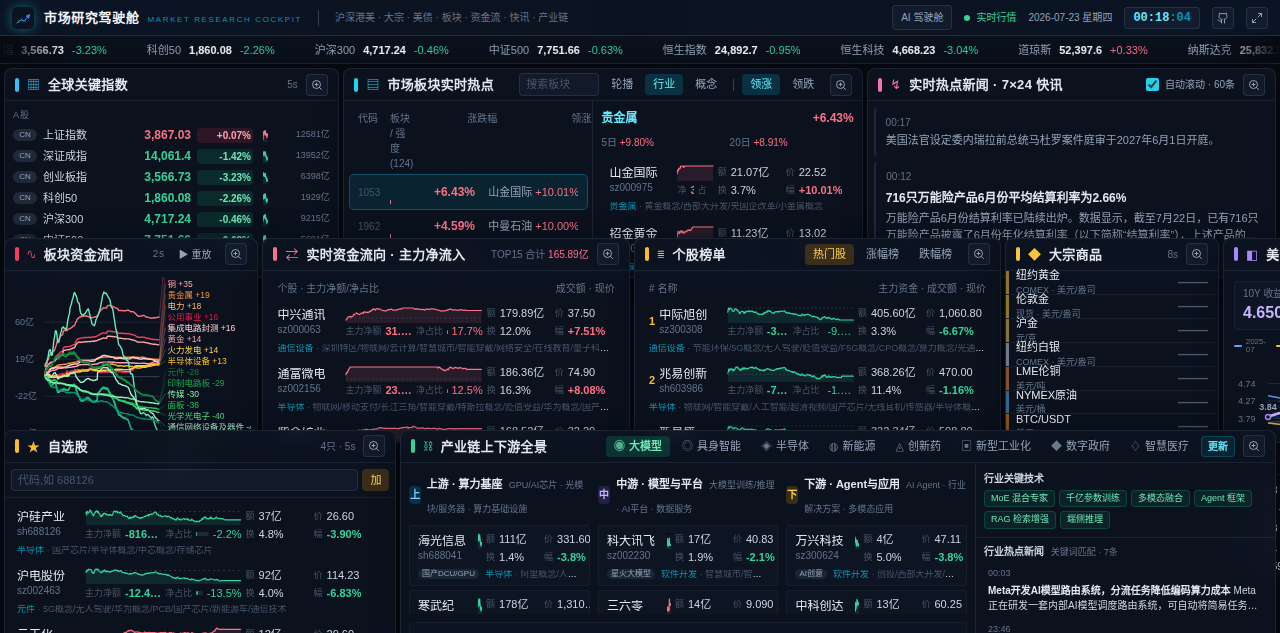
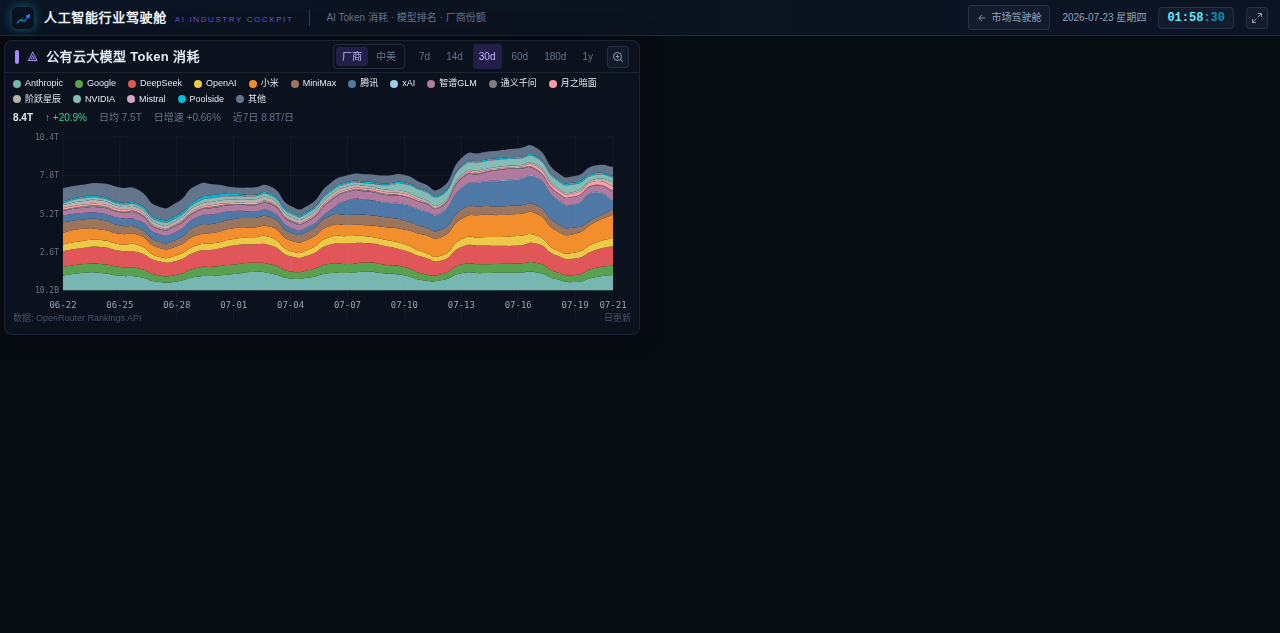
feat: OpenRouter 全量历史数据积累 + 面板优化
- 服务端：OpenRouter rankings-daily API 分段拉取（200天/段），
  从 2025-01-01 起积累 565 天全量数据，本地持久化缓存
- 厂商映射：新增 nex-agi/字节跳动/BAAI/Perplexity/inclusionai
- 面板范围：7d/14d/30d/60d/180d/1y，默认 30d
- 统计行：涨跌幅%、日增速、日均、近7日均
- X 轴日期标签 + 垂直线网格，修复 SVG 裁剪
- openrouter 流量合并到「其他」，补充预设颜色
- API Key 从 git 历史清除，改为 .env 环境变量

diff --git a/src/components/dash/OpenRouterPanel.tsx b/src/components/dash/OpenRouterPanel.tsx
@@ -1,4 +1,4 @@
-import { useEffect, useMemo, useRef, useState } from "react";
+import { useEffect, useMemo, useRef, useState, Fragment } from "react";
 import { Panel, type PanelZoomProps } from "./Panel";
 import { useOpenRouterUsage } from "@/lib/api";
 import type { OrUsageDay } from "@/lib/api";
@@ -14,9 +14,9 @@ const VENDOR_COLORS: Record<string, string> = [
   "#4e79a7", "#f28e2b", "#e15759", "#76b7b2", "#59a14f",
   "#edc948", "#b07aa1", "#ff9da7", "#9c755f", "#bab0ac",
   "#86bcb6", "#d4a6c8", "#f1ce63", "#a0cbe8", "#e377c2",
-  "#7f7f7f",
+  "#7f7f7f", "#00bcd4", "#ff5722", "#8bc34a",
 ].reduce((m, c, i) => {
-  const names = ["腾讯", "小米", "DeepSeek", "Anthropic", "Google", "OpenAI", "智谱GLM", "月之暗面", "MiniMax", "阶跃星辰", "NVIDIA", "Mistral", "Meta", "xAI", "Cohere"];
+  const names = ["腾讯", "小米", "DeepSeek", "Anthropic", "Google", "OpenAI", "智谱GLM", "月之暗面", "MiniMax", "阶跃星辰", "NVIDIA", "Mistral", "Meta", "xAI", "Cohere", "通义千问", "Poolside", "inclusionai", "nex-agi", "字节跳动", "BAAI", "Perplexity"];
   if (i < names.length) m[names[i]] = c;
   return m;
 }, {} as Record<string, string>);
@@ -56,7 +56,7 @@ function Chart({ allDays, days, mode }: { allDays: OrUsageDay[]; days: OrUsageDa
   const chart = useMemo(() => {
     if (!days || days.length < 2) return null;
     const { w: W, h: H } = size;
-    const ch = H - 36, PL = 50, PR = 18, PT = 8, PB = 24;
+    const ch = H - 36, PL = 50, PR = 18, PT = 8, PB = 34;
     const iw = W - PL - PR, ih = ch - PT - PB;
     if (iw < 40 || ih < 20) return null;
     const n = days.length;
@@ -68,7 +68,9 @@ function Chart({ allDays, days, mode }: { allDays: OrUsageDay[]; days: OrUsageDa
     const cum: Record<string, number> = {};
     for (const d of allDays)
       for (const p of d[source]) cum[p.name] = (cum[p.name] || 0) + p.tokens;
-    const topNames = Object.keys(cum).filter((v) => v !== "其他").sort((a, b) => cum[b] - cum[a]);
+    let topNames = Object.keys(cum).filter((v) => v !== "其他").sort((a, b) => cum[b] - cum[a]);
+    // 将 openrouter 合并到"其他"
+    topNames = topNames.filter((v) => v !== "openrouter");
 
     if (mode === "vendor") {
       // vendor mode: top N + other
@@ -105,14 +107,20 @@ function Chart({ allDays, days, mode }: { allDays: OrUsageDay[]; days: OrUsageDa
 
       const yTicks: { v: number; y: number }[] = [];
       for (let i = 0; i <= 4; i++) yTicks.push({ v: lo + ((hi - lo) / 4) * i, y: Y(lo + ((hi - lo) / 4) * i) });
-      const xStep = Math.max(1, Math.floor(n / 6));
+      const xStep = Math.max(1, Math.floor(n / 8));
       const xLabels: { label: string; x: number }[] = [];
-      for (let i = 0; i < n; i += xStep) xLabels.push({ label: days[i].date.slice(5), x: X(i) });
+      const span = n > 1 ? (new Date(days[n-1].date).getTime() - new Date(days[0].date).getTime()) / 86400000 : 0;
+      const fmt = span > 200 ? (d: string) => d.slice(0, 7) : (d: string) => d.slice(5);
+      for (let i = 0; i < n; i += xStep) xLabels.push({ label: fmt(days[i].date), x: X(i) });
       const lastX = X(n - 1);
-      if (!xLabels.length || xLabels[xLabels.length - 1].x < lastX - 20) xLabels.push({ label: days[n - 1].date.slice(5), x: lastX });
+      if (!xLabels.length || xLabels[xLabels.length - 1].x < lastX - 20) xLabels.push({ label: fmt(days[n - 1].date), x: lastX });
       const last = stacked[n - 1].total, first = stacked[0].total, chg = last - first;
+      const chgPct = first ? ((last / first) - 1) * 100 : 0;
+      const dayCount = n - 1;
+      const dailyRate = dayCount > 0 && first ? ((last / first) ** (1 / dayCount) - 1) * 100 : 0;
       const avg7 = stacked.slice(-7).reduce((s, d) => s + d.total, 0) / Math.min(7, n);
-      return { W, H, PL, PR, PT, PB, areas, yTicks, xLabels, last, chg, avg7 };
+      const avg = stacked.reduce((s, d) => s + d.total, 0) / n;
+      return { W, H, PL, PR, PT, PB, areas, yTicks, xLabels, last, chg, chgPct, dailyRate, avg7, avg, dayCount };
     } else {
       // country mode: all countries (China, US, Other)
       const stacked = days.map((d) => {
@@ -147,14 +155,20 @@ function Chart({ allDays, days, mode }: { allDays: OrUsageDay[]; days: OrUsageDa
 
       const yTicks: { v: number; y: number }[] = [];
       for (let i = 0; i <= 4; i++) yTicks.push({ v: lo + ((hi - lo) / 4) * i, y: Y(lo + ((hi - lo) / 4) * i) });
-      const xStep = Math.max(1, Math.floor(n / 6));
+      const xStep = Math.max(1, Math.floor(n / 8));
       const xLabels: { label: string; x: number }[] = [];
-      for (let i = 0; i < n; i += xStep) xLabels.push({ label: days[i].date.slice(5), x: X(i) });
+      const span = n > 1 ? (new Date(days[n-1].date).getTime() - new Date(days[0].date).getTime()) / 86400000 : 0;
+      const fmt = span > 200 ? (d: string) => d.slice(0, 7) : (d: string) => d.slice(5);
+      for (let i = 0; i < n; i += xStep) xLabels.push({ label: fmt(days[i].date), x: X(i) });
       const lastX = X(n - 1);
-      if (!xLabels.length || xLabels[xLabels.length - 1].x < lastX - 20) xLabels.push({ label: days[n - 1].date.slice(5), x: lastX });
+      if (!xLabels.length || xLabels[xLabels.length - 1].x < lastX - 20) xLabels.push({ label: fmt(days[n - 1].date), x: lastX });
       const last = stacked[n - 1].total, first = stacked[0].total, chg = last - first;
+      const chgPct = first ? ((last / first) - 1) * 100 : 0;
+      const dayCount = n - 1;
+      const dailyRate = dayCount > 0 && first ? ((last / first) ** (1 / dayCount) - 1) * 100 : 0;
       const avg7 = stacked.slice(-7).reduce((s, d) => s + d.total, 0) / Math.min(7, n);
-      return { W, H, PL, PR, PT, PB, areas, yTicks, xLabels, last, chg, avg7 };
+      const avg = stacked.reduce((s, d) => s + d.total, 0) / n;
+      return { W, H, PL, PR, PT, PB, areas, yTicks, xLabels, last, chg, chgPct, dailyRate, avg7, avg, dayCount };
     }
   }, [days, allDays, size, mode]);
 
@@ -173,11 +187,13 @@ function Chart({ allDays, days, mode }: { allDays: OrUsageDay[]; days: OrUsageDa
       <div className="flex shrink-0 items-baseline gap-3 pb-1 text-[10px]">
         <span className="font-semibold text-slate-200">{fmtT(chart.last)}</span>
         <span className={chart.chg >= 0 ? "text-emerald-400" : "text-red-400"}>
-          {chart.chg >= 0 ? "↑" : "↓"} {Math.abs(chart.chg) / 1e12 > 0.01 ? fmtT(Math.abs(chart.chg)) : "0"}
+          {chart.chg >= 0 ? "↑" : "↓"} {chart.chgPct > 0.01 || chart.chgPct < -0.01 ? `${chart.chgPct > 0 ? "+" : ""}${chart.chgPct.toFixed(1)}%` : "0%"}
         </span>
-        <span className="text-slate-500">近7日均 {fmtT(Math.round(chart.avg7))}/日</span>
+        <span className="text-slate-500">日均 {fmtT(Math.round(chart.avg))}</span>
+        <span className="text-slate-500">日增速 {chart.dailyRate > 0.001 ? `+${chart.dailyRate.toFixed(2)}%` : `${chart.dailyRate.toFixed(2)}%`}</span>
+        <span className="text-slate-500">近7日 {fmtT(Math.round(chart.avg7))}/日</span>
       </div>
-      <svg width={chart.W} height={chart.H - 36} className="block flex-1">
+      <svg width={chart.W} height={chart.H - 36} className="block flex-1" style={{ overflow: "visible" }}>
         {chart.yTicks.map((t, i) => (
           <line key={i} x1={chart.PL} y1={t.y} x2={chart.W - chart.PR} y2={t.y} stroke="#1e293b" strokeWidth={0.5} />
         ))}
@@ -185,7 +201,10 @@ function Chart({ allDays, days, mode }: { allDays: OrUsageDay[]; days: OrUsageDa
           <path key={a.name} d={a.d} fill={VENDOR_COLORS[a.name] || "#64748b"} />
         ))}
         {chart.xLabels.map((xl, i) => (
-          <text key={i} x={xl.x} y={chart.H - 12} textAnchor="middle" fill="#475569" fontSize={8} fontFamily="monospace">{xl.label}</text>
+          <Fragment key={i}>
+            <line x1={xl.x} y1={8} x2={xl.x} y2={chart.H - 36 - 4} stroke="rgba(148,163,184,0.15)" strokeWidth={0.5} />
+            <text x={xl.x} y={chart.H - 52} textAnchor="middle" fill="#94a3b8" fontSize={9} fontFamily="monospace">{xl.label}</text>
+          </Fragment>
         ))}
         {chart.yTicks.map((t, i) => (
           <text key={`y${i}`} x={chart.PL - 4} y={t.y + 3} textAnchor="end" fill="#64748b" fontSize={8} fontFamily="monospace">{fmtT(Math.round(t.v))}</text>
@@ -196,13 +215,13 @@ function Chart({ allDays, days, mode }: { allDays: OrUsageDay[]; days: OrUsageDa
 }
 
 export function OpenRouterPanel({ className, panelId, isZoomed, onToggleZoom }: PanelZoomProps & { className?: string }) {
-  const [range, setRange] = useState<"7d" | "14d" | "30d">("7d");
+  const [range, setRange] = useState<"7d" | "14d" | "30d" | "60d" | "180d" | "1y">("30d");
   const [mode, setMode] = useState<"vendor" | "country">("vendor");
   const { data, loading, error } = useOpenRouterUsage();
 
   const sliced = useMemo(() => {
     if (!data || data.length === 0) return [];
-    const n = range === "7d" ? 7 : range === "14d" ? 14 : 30;
+    const n = range === "7d" ? 7 : range === "14d" ? 14 : range === "30d" ? 30 : range === "60d" ? 60 : range === "180d" ? 180 : 365;
     return data.slice(-n);
   }, [data, range]);
 
@@ -221,7 +240,7 @@ export function OpenRouterPanel({ className, panelId, isZoomed, onToggleZoom }: 
             <button onClick={() => setMode("vendor")} className={`rounded px-1.5 py-0.5 transition-colors ${mode === "vendor" ? "bg-violet-500/20 text-violet-300" : "text-slate-500 hover:text-slate-300"}`}>厂商</button>
             <button onClick={() => setMode("country")} className={`rounded px-1.5 py-0.5 transition-colors ${mode === "country" ? "bg-violet-500/20 text-violet-300" : "text-slate-500 hover:text-slate-300"}`}>中美</button>
           </div>
-          {(["7d", "14d", "30d"] as const).map((r) => (
+          {(["7d", "14d", "30d", "60d", "180d", "1y"] as const).map((r) => (
             <button key={r} onClick={() => setRange(r)} className={`rounded px-1.5 py-0.5 text-[10px] font-medium transition-colors ${range === r ? "bg-violet-500/20 text-violet-300" : "text-slate-500 hover:text-slate-300"}`}>{r}</button>
           ))}
         </div>

diff --git a/README.md b/README.md
@@ -27,10 +27,10 @@
 - **🔥 板块热点雷达** — 行业 / 概念板块涨跌排行，点击板块联动成分股、龙头股与资金流
 - **💰 资金流向追踪** — 个股主力净流入 TOP 榜、板块资金分钟级累计曲线、热门股 / 涨幅 / 跌幅榜单
 - **⛓️ 产业链全景** — 半导体、AI 算力、新能源车、机器人、创新药等产业链，上中下游标的分层展示并联动行情。支持手动编辑或从问财自动获取股票列表
-- **🤖 AI 驾驶舱** — LLM API 用量监控面板，实时追踪多模型多提供商 Token 消耗与配额
+- **🤖 AI 驾驶舱** — OpenRouter 日度榜单 API，追踪全球 50+ 大模型厂商 Token 消耗量趋势（支持 7d~1y 时间范围），按厂商/国家/地区堆叠面积图展示份额变化，支持 60 天以上超长历史回溯
 - **📰 7×24 快讯聚合** — 全球财经快讯滚动播报，宏观关键词与产业链关联新闻自动高亮
 - **🖥️ 可安装为桌面应用** — 内置 PWA 支持（Web Manifest + Service Worker），浏览器地址栏一键安装，独立窗口运行
-- **⚡ 零依赖数据服务** — 内置 Node 代理聚合公开行情接口，内存缓存减压，无需 API Key，开箱即用
+- **⚡ 零依赖数据服务** — 内置 Node 代理聚合公开行情接口，内存缓存减压，大部分接口无需 API Key，开箱即用
 
 ## 🏗️ 架构
 
@@ -43,6 +43,7 @@ flowchart LR
         C2[华尔街见闻] --> D
         C3[CNBC / Binance] --> D
         C4[同花顺问财] --> D
+        C5[OpenRouter 榜单] --> D
     end
     subgraph 本项目
         D["Node 数据代理<br/>内存 TTL 缓存"] -->|"/api/*"| E["React 19 前端<br/>轮询刷新"]
@@ -75,6 +76,8 @@ npm run dev
 
 ```bash
 npm run build   # 构建到 dist/
+# 可选：配置 OpenRouter API Key（AI 驾驶舱面板）
+# echo 'OPENROUTER_API_KEY=sk-or-v1-xxxx' > server/.env
 npm start       # 单进程启动，访问 http://localhost:3000
 ```
 
@@ -113,6 +116,7 @@ docker run -p 3000:3000 market-cockpit
 | `/api/treasury-history` | 美债收益率历史曲线 |
 | `/api/mystery-select?query=...&limit=...` | 问财股票筛选（按概念/行业查询） |
 | `/api/chain-parse` | 产业链文本解析（按段落标题自动分配上中下游） |
+| `/api/openrouter-usage` | OpenRouter 日度榜单（厂商 Token 消耗量，本地缓存持久化积累） |
 | `/api/health` | 健康检查 |
 
 ## 🗂️ 项目结构